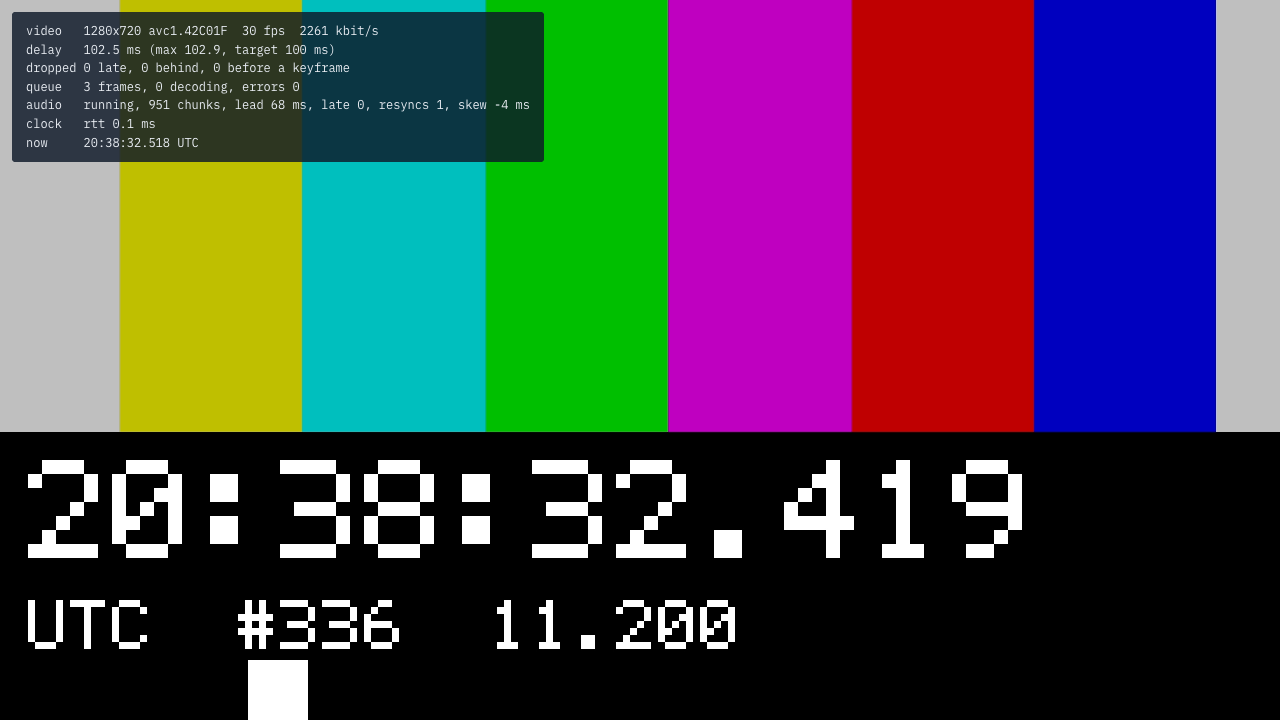
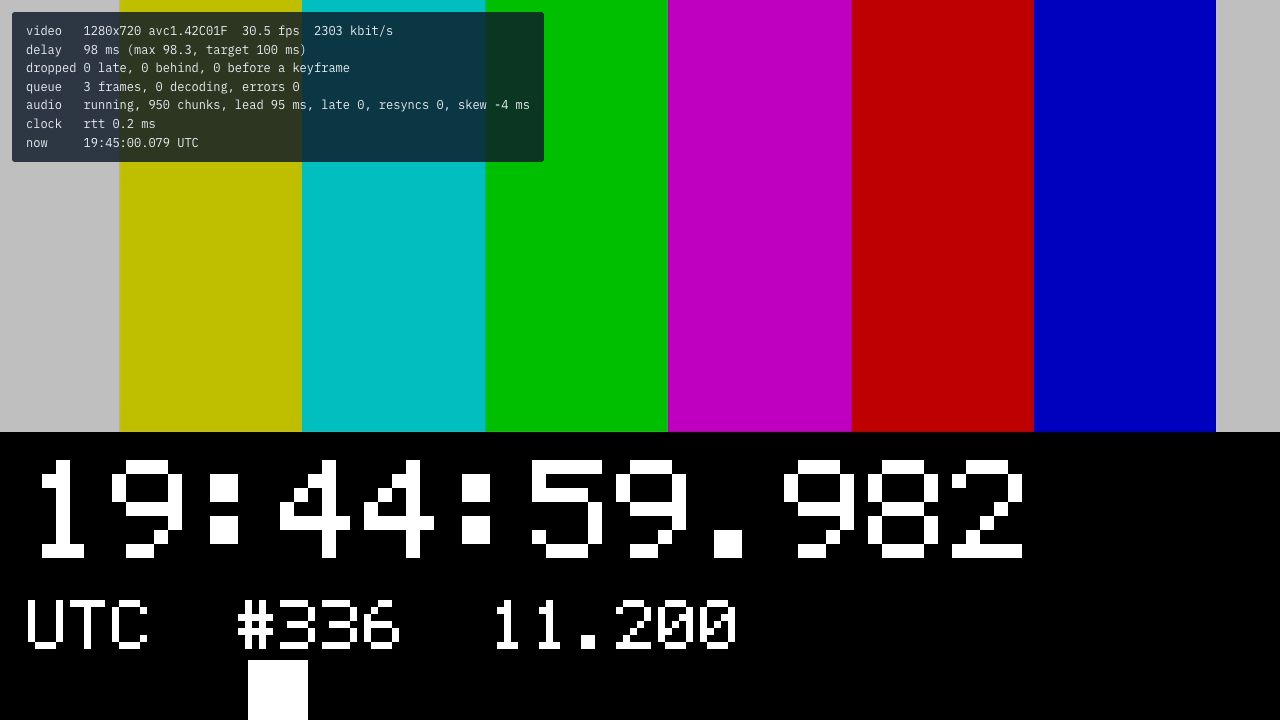
site: Debug commands page; the game launcher on the party page
A new Development page, Debug commands (debug pattern, pipeline, tunnel,
qr), from the CLI agent's text checked against each command's --help
(--encoder defaults to auto, each usage line moved into its example block
so it does not widen the page). The commands table has one debug row, and
Public links, Latency and ffmpeg and encoding point there instead of
documenting the commands. screenshots.mjs also shoots tvpipe game play's
start window (light and dark, with made-up receivers instead of the
network's), shown on the party page.

diff --git a/site/manual/20-debug-commands.md b/site/manual/20-debug-commands.md
@@ -1,0 +1,84 @@
+---
+title: Debug commands
+summary: The test pattern, checking an input, a public link for any port, QR codes.
+group: Development
+spec:
+  Commands: `debug pattern`, `debug pipeline`; `debug tunnel`, `debug qr`
+---
+
+For development and testing: `tvpipe debug` groups the commands that are not about playing something. `tvpipe debug COMMAND --help` lists every option.
+
+## debug pattern
+
+:::aside Built in
+The pattern needs no ffmpeg.
+:::
+
+`tvpipe debug pattern` streams a test pattern: colour bars, the UTC time in milliseconds, a frame counter, and a flash and a beep every second. tvpipe draws and encodes it itself. [Latency](latency.md) shows how to measure the delay with it.
+
+```sh
+# tvpipe debug pattern --to NAME|ADDR [OPTIONS]
+$ tvpipe debug pattern --to TV
+$ tvpipe debug pattern --to TV --to Kitchen --latency 300
+$ tvpipe debug pattern --to browser --open
+```
+
+| Option | |
+|---|---|
+| `--to NAME|ADDR` | Where to stream. Repeat it for several receivers. `browser` is the [player page](browser.md). |
+| `--size WxH`, `--fps N`, `--bitrate KBPS` | The picture. |
+| `--latency MS` | How long receivers wait before they show a frame. |
+| `--encoder NAME` | `auto` by default, which is tvpipe's own encoder. An ffmpeg encoder (`x264`, `videotoolbox`, …) streams ffmpeg's `testsrc2` instead. |
+| `--no-audio` | No beep. |
+
+The other streaming options and the player options work as with `play`. See [Commands and options](options.md).
+
+## debug pipeline
+
+`tvpipe debug pipeline` reads an input the way `play` does, without a receiver, and prints what arrives. First comes the ffmpeg command line, then one line per track and per frame (time stamp, keyframe, size, arrival time), and then a summary per track. Without an input it reads ffmpeg's test source.
+
+```sh
+# tvpipe debug pipeline [OPTIONS] [INPUT | - | -- FFMPEG_INPUT_ARGS...]
+$ tvpipe debug pipeline movie.mp4
+$ tvpipe debug pipeline --raw movie.mp4
+$ tvpipe debug pipeline -- -f avfoundation -i 1:0
+```
+
+| Option | |
+|---|---|
+| `--raw` | No encoding: the frames as they are in the file. |
+| `--raw-video`, `--raw-audio` | Frames and sound on standard input (`-`). See [Game input](games.md). |
+| `--ffmpeg PATH` | The ffmpeg to use. |
+
+## debug tunnel
+
+`tvpipe debug tunnel PORT` puts a server of your own on `127.0.0.1:PORT` on a public https link, for example a web app on port 8080. The link is new every run. It works until you stop tvpipe with Ctrl-C or `q`.
+
+```sh
+# tvpipe debug tunnel PORT [--tunnel=PROVIDER] [--no-qr]
+$ tvpipe debug tunnel 8080
+$ tvpipe debug tunnel 8080 --tunnel=opentunnel
+```
+
+| Option | |
+|---|---|
+| `--tunnel=cloudflare` | A Cloudflare quick tunnel, the default. |
+| `--tunnel=opentunnel` | OpenTunnel: TLS ends on this computer. |
+| `--no-qr` | No QR code of the link in the terminal. |
+
+Your server answers everything that comes in, so it decides who may do what. Requests carry the public name as `Host`, and WebSockets carry it as `Origin`. The providers are explained in [Public links](links.md).
+
+## debug qr
+
+`tvpipe debug qr TEXT` prints a QR code of a text or a link.
+
+```sh
+# tvpipe debug qr [--svg | --rows] TEXT
+$ tvpipe debug qr https://example.com
+$ tvpipe debug qr --svg https://example.com > link.svg
+```
+
+| Option | |
+|---|---|
+| `--svg` | An SVG document instead of the terminal drawing. |
+| `--rows` | One line of `0` and `1` per row, for programs. |

diff --git a/site/manual/15-options.md b/site/manual/15-options.md
@@ -3,7 +3,7 @@ title: Commands and options
 summary: Every command, and the options they share.
 group: Reference
 spec:
-  Commands: `play`, `preview`; `share`, `debug pattern`
+  Commands: `play`, `preview`; `share`, `screen`
 ---
 
 Every command lists all of its options with `--help`.
@@ -20,10 +20,7 @@ Every command lists all of its options with `--help`.
 | `preview` | Plays in a browser tab. See [Playing to a browser](browser.md). |
 | `game play` | Plays a party game: a web app on the TV, phones join with a QR code. See [Party games](party.md). |
 | `game new`, `game check`, `game pack` | Starts a party game, checks it, or packs it into a zip. See [Making party games](making-games.md). |
-| `debug pattern` | Sends a test pattern. See [Latency](latency.md). |
-| `debug pipeline` | Reads an input without a receiver. See [ffmpeg and encoding](encoding.md). |
-| `debug tunnel` | Puts a server on this computer on a public link. See [Public links](links.md#s3). |
-| `debug qr` | Prints a QR code, `--svg` or `--rows` for programs. |
+| `debug` | `pattern`, `pipeline`, `tunnel`, `qr`. See [Debug commands](debug-commands.md). |
 
 ## Streaming
 

diff --git a/site/manual/09-links.md b/site/manual/09-links.md
@@ -44,18 +44,7 @@ Programs that use `--machine` or the [Node SDK](node.md) have no terminal to ask
 
 ## Any web app
 
-:::aside QR codes
-`tvpipe debug qr TEXT` prints any link as a QR code, `--svg` as an SVG file.
-:::
-
-`tvpipe debug tunnel PORT` puts a server of your own on a public link, for example a web app on port 8080. It runs until you stop it.
-
-```sh
-$ tvpipe debug tunnel 8080
-$ tvpipe debug tunnel 8080 --tunnel=opentunnel
-```
-
-Your server answers everything that comes in, so it decides who may do what.
+`tvpipe debug tunnel PORT` puts a server of your own on a public link, and `tvpipe debug qr` prints QR codes. See [Debug commands](debug-commands.md).
 
 [Party games](party.md) do not need this: `tvpipe game play` starts its own link for the phones, OpenTunnel, else Cloudflare, reusing the last quick tunnel.
 

diff --git a/site/manual/19-encoding.md b/site/manual/19-encoding.md
@@ -1,13 +1,12 @@
 ---
 title: ffmpeg and encoding
-summary: When tvpipe needs ffmpeg, and checking an input.
+summary: When tvpipe needs ffmpeg.
 group: Development
 spec:
-  Command: `debug pipeline`
   Flag: `-v`
 ---
 
-For development: which inputs go through ffmpeg, and how to check what tvpipe reads.
+For development: which inputs go through ffmpeg.
 
 ## When ffmpeg runs
 
@@ -26,8 +25,4 @@ A file is sent unchanged when it is an MP4, MOV or MKV with H.264 video, without
 
 ## Checking an input
 
-`debug pipeline` reads an input without a receiver and prints every frame. `--raw` shows what ffmpeg delivers before tvpipe’s settings.
-
-```sh
-$ tvpipe debug pipeline movie.mp4
-```
+`tvpipe debug pipeline INPUT` reads an input without a receiver and prints every frame. See [Debug commands](debug-commands.md).

diff --git a/site/manual/13-party.md b/site/manual/13-party.md
@@ -27,6 +27,8 @@ $ tvpipe game play drawbluff.zip       # or a zip of one
 3. Everyone scans the QR code and plays on their phone. Phones that lose the connection (a locked screen, a tunnel hiccup) come back on their own.
 4. Close the window (or press Ctrl-C in the terminal) to end it: the TVs leave the game, the phones say the room closed.
 
+![The start window: a game, its TVs to pick, and the Start buttons](shots/game-launcher.png "The start window of `tvpipe game play`, with drawbluff.")
+
 :::aside How phones get in
 By default through a public link: OpenTunnel, which tvpipe sets up once and reuses, with Cloudflare when OpenTunnel fails. `--lan` serves phones on the same Wi-Fi instead.
 :::

diff --git a/site/manual/18-latency.md b/site/manual/18-latency.md
@@ -11,13 +11,7 @@ For development: how far the TV runs behind the source, and how to measure it.
 
 ## The test pattern
 
-:::aside Built in
-The pattern needs no ffmpeg.
-:::
-
-```sh
-$ tvpipe debug pattern --to TV
-```
+`tvpipe debug pattern --to TV` streams it. Its options are on [Debug commands](debug-commands.md).
 
 ![The test pattern: colour bars, a UTC clock, frame number and media time](shots/test-pattern.png "Colour bars, the UTC time at which the frame was made, the frame number and the media time. A square flashes and a beep sounds once a second."){.crt}
 
